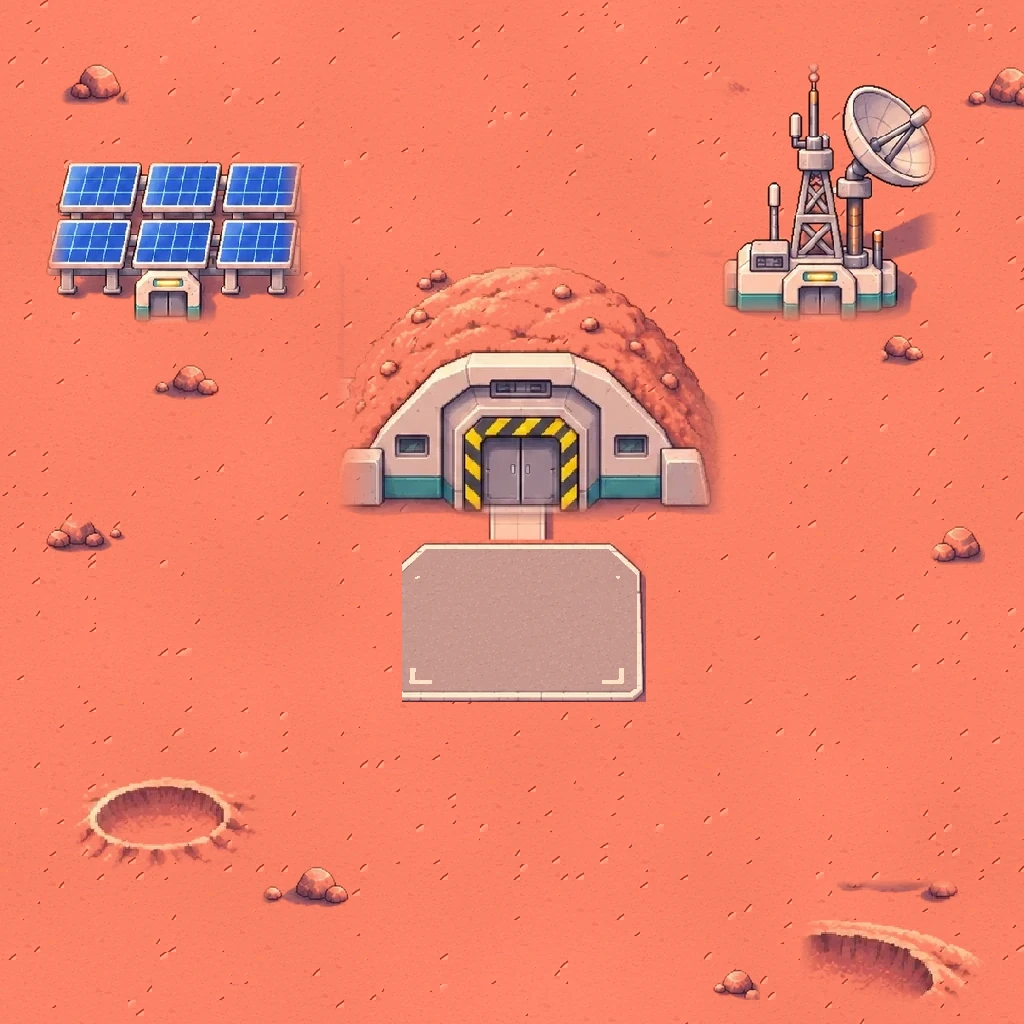
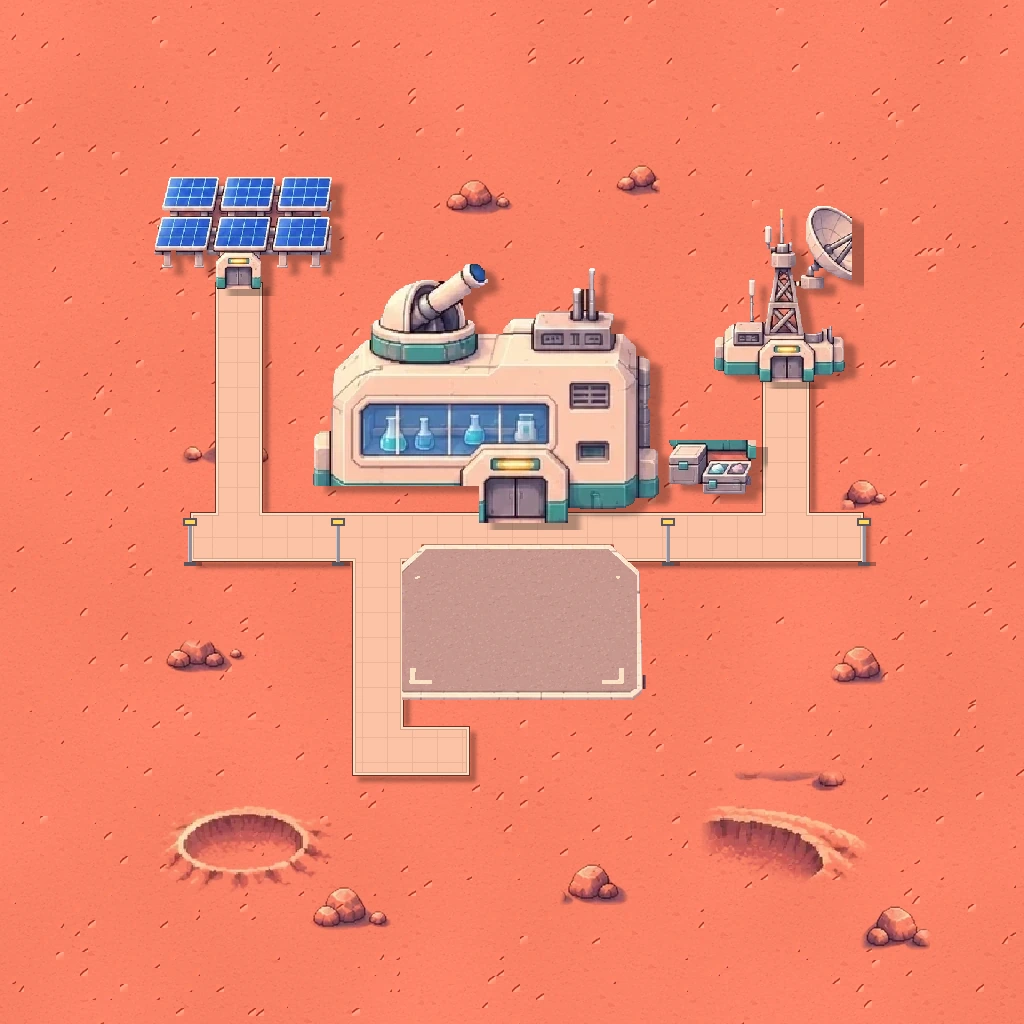
refaz a estação do rover e acende as luzes à noite
- estação nova: laboratório no meio, painéis, antena, caixotes, postes e piso
  igual ao da base, tudo sólido e dentro da área da câmera (antes os prédios
  ficavam meio transparentes e cortados no canto)
- janela, porta e postes acendem enquanto o astronauta trabalha e à noite,
  desenhados por cima do véu do horário
- fim de tarde mais visível na viagem e na estação
- alerta urgente não abre mais no meio da cutscene do rover

diff --git a/src/game/ui/RoverCena.tsx b/src/game/ui/RoverCena.tsx
@@ -50,8 +50,17 @@ const ESC = 420; // esmaecer (ms)
 
 /** estação (art-source/rover/estacao.py): onde o rover para e onde fica a porta */
 const EST = { roverX: 51, roverY: 62, portaX: 51, portaY: 50.5 };
+/** luzes da estação [x, y, largura, altura, força] em % (estacao.py imprime as posições) */
+const LUZES: [number, number, number, number, number][] = [
+  [44.6, 41.8, 18.2, 4.6, 0.45], // janela do laboratório
+  [51, 44.9, 3, 0.9, 0.95], // luz em cima da porta
+  [18.6, 51.1, 1.2, 0.6, 0.95], // postes
+  [33, 51.1, 1.2, 0.6, 0.95],
+  [65.2, 51.1, 1.2, 0.6, 0.95],
+  [84.4, 51.1, 1.2, 0.6, 0.95],
+];
 const DESCE_Y = EST.roverY + 11; // onde o astronauta aterrissa (na frente do rover)
-/** caminho a pé do rover até a porta, contornando o rover pela esquerda */
+/** caminho a pé do rover até a porta, contornando o rover pela esquerda (pela calçada da estação) */
 const A_PE: [number, number][] = [
   [EST.roverX - 1, DESCE_Y],
   [37, DESCE_Y],
@@ -369,7 +378,7 @@ const FILTRO: Record<Periodo, string | undefined> = {
 };
 const VEU: Record<Periodo, string | undefined> = {
   dia: undefined,
-  entardecer: "rgba(255, 120, 50, 0.22)",
+  entardecer: "rgba(255, 110, 45, 0.32)",
   noite: "rgba(40, 18, 70, 0.55)",
 };
 
@@ -383,6 +392,7 @@ function Palco({ q, periodo, periodoFim }: { q: Quadro; periodo: Periodo; period
   const fim = periodoFim ?? periodo;
   const mistura = periodoFim && periodoFim !== periodo ? clamp01(q.relogio) : 0; // 0 = começo, 1 = fim
   const agora = mistura >= 0.5 ? fim : periodo;
+  const aceso = Math.max(q.luz, agora === "noite" ? 0.85 : 0);
   const roverImg = q.rover && q.cena !== "preto" && (
     <img
       key="rover"
@@ -456,28 +466,6 @@ function Palco({ q, periodo, periodoFim }: { q: Quadro; periodo: Periodo; period
         {q.cena === "estacao" && (
           <>
             <img src="/assets/rover/estacao.webp" alt="" className="absolute inset-0 h-full w-full" draggable={false} />
-            {/* janelas e luz da porta acendendo enquanto o astronauta trabalha lá dentro */}
-            {q.luz > 0 &&
-              [
-                [41.5, 43.4],
-                [61.4, 43.4],
-                [50.9, 37.6],
-              ].map(([x, y], i) => (
-                <span
-                  key={i}
-                  className="absolute rounded-sm bg-[#ffe27a]"
-                  style={{
-                    left: `${x}%`,
-                    top: `${y}%`,
-                    width: "3%",
-                    height: "1.6%",
-                    transform: "translate(-50%, -50%)",
-                    opacity: q.luz * (i === 2 ? 0.9 : 0.75 + 0.25 * Math.sin(q.luz * 9 + i)),
-                    boxShadow: `0 0 ${10 * q.luz}px ${4 * q.luz}px rgba(255, 210, 90, ${0.6 * q.luz})`,
-                  }}
-                  aria-hidden
-                />
-              ))}
           </>
         )}
         {q.cena !== "preto" &&
@@ -521,6 +509,29 @@ function Palco({ q, periodo, periodoFim }: { q: Quadro; periodo: Periodo; period
           aria-hidden
         />
       )}
+      {/* luzes da estação por cima do véu do horário (com o mesmo zoom do palco) */}
+      <div className="pointer-events-none absolute inset-0" style={zoom}>
+        {/* janela do laboratório, luz da porta e postes: acendem enquanto o astronauta trabalha
+            lá dentro e ficam acesos à noite */}
+        {q.cena === "estacao" && aceso > 0 &&
+          LUZES.map(([x, y, w, h, forca], i) => (
+            <span
+              key={i}
+              className="absolute bg-[#ffe27a]"
+              style={{
+                left: `${x}%`,
+                top: `${y}%`,
+                width: `${w}%`,
+                height: `${h}%`,
+                transform: "translate(-50%, -50%)",
+                mixBlendMode: i === 0 ? "screen" : undefined,
+                opacity: aceso * forca,
+                boxShadow: `0 0 ${10 * aceso}px ${4 * aceso}px rgba(255, 210, 90, ${0.5 * aceso})`,
+              }}
+              aria-hidden
+            />
+          ))}
+    </div>
       <div className="pointer-events-none absolute inset-0 bg-black" style={{ opacity: q.preto }} aria-hidden />
     </div>
   );

diff --git a/src/game/ui/GameApp.tsx b/src/game/ui/GameApp.tsx
@@ -280,7 +280,8 @@ function GameInner({
 
   // alerta urgente abre sozinho quando a criança chega no mapa
   useEffect(() => {
-    if (phase !== "mapa" || !game || card || overlay) return;
+    // durante a expedição do rover (indo, na estação ou voltando) espera a volta à base
+    if (phase !== "mapa" || !game || card || overlay || cena) return;
     const urgente = game.alerts.find((a) => a.urgent && !a.done);
     if (urgente) {
       setPlace(null);
@@ -288,7 +289,7 @@ function GameInner({
       setCard(urgente.id);
       tutVaiPara("custo");
     }
-  }, [phase, game, card, overlay, tutVaiPara]);
+  }, [phase, game, card, overlay, cena, tutVaiPara]);
 
   const onPlace = useCallback(
     (pl: PlaceId) => {

diff --git a/art-source/rover/estacao.py b/art-source/rover/estacao.py
@@ -2,10 +2,12 @@
 
 - viagem_chao.webp (1024x1024): chão de Marte com crateras e pedras que se REPETE sem emenda na
   horizontal (a cena da viagem rola esse chão para o lado enquanto o rover anda).
-- estacao.webp (1024x1024): a estação de pesquisa onde o rover para (abrigo + antena + painéis
-  solares + plataforma de pouso do rover na frente da porta).
+- estacao.webp (1024x1024): a estação de pesquisa onde o rover para. O laboratório da base no meio,
+  painéis solares e antena dos lados, caixas, postes de luz e caminhos de piso iguais aos da base,
+  e a plataforma do rover na frente da porta. Tudo dentro da área que a câmera mostra (zoom 1.36
+  centrado em x 51%, y 58% -> de x 14% a 87% e de y 15% a 89%).
 
-Uso:  python art-source/rover/estacao.py public/assets/map/base_dia.webp public/assets/rover/garagem_dia.png public/assets/rover
+Uso:  python art-source/rover/estacao.py public/assets/map/base_dia.webp public/assets/rover/garagem_dia.png public/assets/rover [--so-estacao]
 Troque pelos desenhos do time de arte quando estiverem prontos (mesmos nomes de arquivo).
 """
 import os
@@ -15,7 +17,7 @@ import cv2
 import numpy as np
 from PIL import Image
 
-src, garagem, out = sys.argv[1], sys.argv[2], sys.argv[3]
+src, garagem, out = sys.argv[1], sys.argv[2], sys.argv[3]  # --so-estacao: não refaz o chão da viagem
 base = np.asarray(Image.open(src).convert("RGB")).astype(np.float32)
 N = 1024
 rng = np.random.default_rng(23)
@@ -74,43 +76,174 @@ PEDRAS = [(330, 25, 425, 65), (395, 110, 450, 155), (565, 165, 640, 205), (405, 
           (900, 890, 980, 945), (710, 880, 760, 910)]
 DUNAS = [(590, 15, 720, 60), (900, 225, 1015, 285), (720, 950, 860, 1020)]
 
-# ---------------------------------------------------------------- chão da viagem (repete na horizontal)
-v = chao()
-for c, onde, esc, esp in [
-    (CRATERAS[0], (60, 120), 1.7, False), (CRATERAS[1], (560, 210), 1.5, True),
-    (CRATERAS[2], (820, 760), 1.6, False), (CRATERAS[3], (300, 820), 1.4, True),
-    (CRATERAS[0], (930, 380), 1.1, True), (CRATERAS[1], (420, 30), 1.0, False),
-]:
-    colar(v, c, onde, esc, esp, repetir=True)
-for i, d in enumerate(DUNAS * 2):
-    colar(v, d, [(200, 470), (700, 600), (980, 90), (120, 680), (640, 900), (360, 330)][i], 1.2, i % 2 == 1, repetir=True)
-lugares = [(30, 40), (260, 250), (480, 140), (700, 420), (900, 260), (150, 560), (420, 680),
-           (610, 760), (860, 600), (980, 950), (60, 900), (520, 500), (300, 960), (760, 60)]
-for p, onde in zip(PEDRAS, lugares):
-    colar(v, p, onde, 1.0, bool(rng.integers(0, 2)), repetir=True)
-# marcas de pneu do caminho (no meio, onde o rover passa)
-for dy in (-16, 16):
-    y = 560 + dy
-    for x in range(0, N, 6):
-        if (x // 6) % 3 != 2:
-            v[y - 2 : y + 2, x : x + 4] *= 0.86
-Image.fromarray(v.astype(np.uint8)).save(os.path.join(out, "viagem_chao.webp"), "WEBP", quality=90, method=6)
+if "--so-estacao" not in sys.argv:
+    # ---------------------------------------------------------------- chão da viagem (repete na horizontal)
+    v = chao()
+    for c, onde, esc, esp in [
+        (CRATERAS[0], (60, 120), 1.7, False), (CRATERAS[1], (560, 210), 1.5, True),
+        (CRATERAS[2], (820, 760), 1.6, False), (CRATERAS[3], (300, 820), 1.4, True),
+        (CRATERAS[0], (930, 380), 1.1, True), (CRATERAS[1], (420, 30), 1.0, False),
+    ]:
+        colar(v, c, onde, esc, esp, repetir=True)
+    for i, d in enumerate(DUNAS * 2):
+        colar(v, d, [(200, 470), (700, 600), (980, 90), (120, 680), (640, 900), (360, 330)][i], 1.2, i % 2 == 1, repetir=True)
+    lugares = [(30, 40), (260, 250), (480, 140), (700, 420), (900, 260), (150, 560), (420, 680),
+               (610, 760), (860, 600), (980, 950), (60, 900), (520, 500), (300, 960), (760, 60)]
+    for p, onde in zip(PEDRAS, lugares):
+        colar(v, p, onde, 1.0, bool(rng.integers(0, 2)), repetir=True)
+    # marcas de pneu do caminho (no meio, onde o rover passa)
+    for dy in (-16, 16):
+        y = 560 + dy
+        for x in range(0, N, 6):
+            if (x // 6) % 3 != 2:
+                v[y - 2 : y + 2, x : x + 4] *= 0.86
+    Image.fromarray(v.astype(np.uint8)).save(os.path.join(out, "viagem_chao.webp"), "WEBP", quality=90, method=6)
 
 # ---------------------------------------------------------------- estação de pesquisa
+# Prédios recortados INTEIROS do mapa (máscara sólida, sem transparência no meio) e colados
+# com sombra. Caixas no mapa da base (1024x1024): [x0, y0, x1, y1].
+LAB = (30, 650, 316, 868)  # laboratório (vira a estação de pesquisa)
+CAIXAS = (44, 843, 166, 919)  # caixotes da frente do laboratório
+PAINEIS = (58, 98, 368, 293)
+ANTENA = (684, 14, 884, 292)
+CHAO_COR = COR
+
+
+def sprite(caixa, escala, limiar=46, tirar=(), fonte=None):
+    """recorte sólido: o que difere do chão vira prédio; buracos dentro são preenchidos."""
+    x0, y0, x1, y1 = caixa
+    p = (base if fonte is None else fonte)[y0:y1, x0:x1].copy()
+    dif = np.abs(p - CHAO_COR).sum(axis=2)
+    # sombra do mapa (chão mais escuro, mesma cor) não é prédio: a sombra nova vem de sombra()
+    k = (p @ CHAO_COR) / (CHAO_COR @ CHAO_COR)
+    resto = np.abs(p - k[..., None] * CHAO_COR).sum(axis=2)
+    m = ((dif > limiar) & ~((resto < 95) & (k < 1.02))).astype(np.uint8)
+    for zx0, zy0, zx1, zy1 in tirar:
+        m[zy0 - y0 : zy1 - y0, zx0 - x0 : zx1 - x0] = 0
+    m = cv2.morphologyEx(m, cv2.MORPH_OPEN, np.ones((3, 3), np.uint8))
+    m = cv2.morphologyEx(m, cv2.MORPH_CLOSE, np.ones((7, 7), np.uint8))
+    # preenche buracos: tudo que não é alcançado a partir da borda é prédio
+    h, w = m.shape
+    inv = np.pad(1 - m, 1, constant_values=1)
+    fl = inv.copy()
+    cv2.floodFill(fl, np.zeros((h + 4, w + 4), np.uint8), (0, 0), 2)
+    m = ((fl[1:-1, 1:-1] != 2)).astype(np.uint8)
+    # fica só com os pedaços grandes (sem grãozinhos de areia soltos)
+    n, lab, st, _ = cv2.connectedComponentsWithStats(m, 8)
+    keep = np.zeros_like(m)
+    for k in range(1, n):
+        if st[k, cv2.CC_STAT_AREA] > 300:
+            keep[lab == k] = 1
+    if escala != 1.0:
+        p = cv2.resize(p, None, fx=escala, fy=escala, interpolation=cv2.INTER_NEAREST)
+        keep = cv2.resize(keep, None, fx=escala, fy=escala, interpolation=cv2.INTER_NEAREST)
+    return p, keep.astype(np.float32)
+
+
+def sombra(img, m, onde, dx=12, dy=7, forca=0.7):
+    ox, oy = onde
+    h, w = m.shape
+    s = cv2.GaussianBlur(m, (0, 0), 2.5)
+    for y in range(h):
+        yy = oy + y + dy
+        if not 0 <= yy < N:
+            continue
+        xa, xb = max(0, ox + dx), min(N, ox + dx + w)
+        img[yy, xa:xb] *= 1 - (1 - forca) * s[y, xa - ox - dx : xb - ox - dx, None]
+
+
+def pregar(img, sp, onde):
+    p, m = sp
+    ox, oy = onde
+    h, w = m.shape
+    a = m[..., None]
+    img[oy : oy + h, ox : ox + w] = img[oy : oy + h, ox : ox + w] * (1 - a) + p * a
+
+
+# cores do piso (medidas na estrada do mapa)
+PISO = np.array([252, 195, 166], np.float32)
+LINHA = np.array([237, 179, 151], np.float32)
+CONTORNO = np.array([110, 48, 34], np.float32)
+BRILHO = np.array([254, 222, 198], np.float32)
+FILETE = np.array([214, 165, 136], np.float32)
+
+
+def caminhos(img, retangulos):
+    m = np.zeros((N, N), np.uint8)
+    for x0, y0, x1, y1 in retangulos:
+        m[y0:y1, x0:x1] = 1
+    # sombra para baixo/direita, como na base
+    sh = np.zeros_like(m)
+    sh[6:, 6:] = m[:-6, :-6]
+    sh = cv2.GaussianBlur((sh & (1 - m)).astype(np.float32), (0, 0), 2)
+    img *= 1 - 0.32 * sh[..., None]
+    k = np.ones((3, 3), np.uint8)
+    e1 = cv2.erode(m, k)
+    e3 = cv2.erode(m, k, iterations=3)
+    e4 = cv2.erode(m, k, iterations=4)
+    yy, xx = np.mgrid[0:N, 0:N]
+    grade = ((xx % 25) == 12) | ((yy % 25) == 12)
+    cor = np.where(grade[..., None], LINHA, PISO)
+    cor = np.where((e3 & (1 - e4))[..., None].astype(bool), FILETE, cor)
+    cor = np.where((e1 & (1 - e3))[..., None].astype(bool), BRILHO, cor)
+    cor = np.where((m & (1 - e1))[..., None].astype(bool), CONTORNO, cor)
+    img[:] = np.where(m[..., None].astype(bool), cor, img)
+
+
+def poste(img, x, y):
+    """poste de luz em pixel art (base em x, y): pé, haste e lâmpada amarela."""
+    img[y - 4 : y, x - 6 : x + 6] = (92, 84, 92)
+    img[y - 40 : y - 4, x - 2 : x + 2] = (150, 142, 150)
+    img[y - 40 : y - 4, x - 2 : x - 1] = (205, 198, 205)
+    img[y - 48 : y - 40, x - 7 : x + 7] = (92, 84, 92)
+    img[y - 46 : y - 42, x - 5 : x + 5] = (255, 214, 92)
+    img[y - 4 : y, x + 6 : x + 12] *= 0.7
+
+
 e = chao()
-for c, onde, esc, esp in [(CRATERAS[0], (60, 760), 1.4, False), (CRATERAS[3], (800, 880), 1.3, True)]:
+# crateras e pedras longe dos prédios e do caminho do astronauta
+for c, onde, esc, esp in [(CRATERAS[0], (150, 790), 1.3, False), (CRATERAS[3], (700, 770), 1.2, True)]:
     colar(e, c, onde, esc, esp)
-for p, onde in zip(PEDRAS[:8], [(40, 520), (930, 520), (150, 360), (880, 330), (260, 860), (700, 960), (60, 60), (960, 60)]):
+for p, onde in zip(PEDRAS[:9], [(160, 640), (830, 640), (440, 175), (610, 160), (180, 420), (840, 470),
+                                (560, 860), (300, 880), (860, 900)]):
     colar(e, p, onde, 1.0, bool(rng.integers(0, 2)))
-# prédios (atrás primeiro): painéis solares, antena, abrigo (a estação em si)
-colar(e, (55, 90, 370, 295), (40, 150), 0.85, limiar=40)
-colar(e, (688, 18, 918, 295), (720, 60), 0.95, limiar=40)
-# plataforma do rover na frente da porta (recorte da garagem vazia, com o caminho em cima)
+
+PAD_X, PAD_Y = 398, 500  # plataforma do rover (garagem vazia do mapa)
+lab = sprite(LAB, 1.25, tirar=[(30, 838, 168, 868)])  # sem os caixotes (vão à parte)
+LAB_XY = (522 - int((203 - LAB[0]) * 1.25), 516 - int((862 - LAB[1]) * 1.25))
+pain = sprite(PAINEIS, 0.6)
+PAIN_XY = (150, 172)
+ant = sprite(ANTENA, 0.72)
+ANT_XY = (708, 182)
+cx = sprite(CAIXAS, 0.75)
+CX_XY = (664, 440)
+
+# piso: uma rua na frente da estação ligando painéis, porta e antena; a calçada da esquerda é o
+# caminho a pé do astronauta (RoverCena.tsx: A_PE) e a ligação da porta com a plataforma
+porta_pain = PAIN_XY[0] + int((207 - PAINEIS[0]) * 0.6)
+porta_ant = ANT_XY[0] + int((793 - ANTENA[0]) * 0.72)
+caminhos(e, [
+    (190, 512, 864, 562),  # rua da frente
+    (430, 540, 614, 548),  # encosta na plataforma
+    (porta_pain - 24, 282, porta_pain + 24, 540),  # painéis
+    (porta_ant - 24, ANT_XY[1] + 196, porta_ant + 24, 540),  # antena
+    (352, 512, 404, 776),  # calçada do astronauta
+    (352, 726, 470, 776),
+    (497, 500, 547, 548),  # porta → plataforma
+])
 pad = np.asarray(Image.open(garagem).convert("RGB")).astype(np.float32)
-PAD_X, PAD_Y = 398, 500
-# a plataforma entra inteira (sem esfumar a borda); o resto do recorte é só chão
-e[PAD_Y + 40 : PAD_Y + 202, PAD_X + 4 : PAD_X + 248] = pad[40:202, 4:248]
-colar(e, (0, 0, pad.shape[1], 42), (PAD_X, PAD_Y), 1.0, limiar=18, fundo=pad)
-colar(e, (702, 655, 1012, 875), (337, 250), 1.25, limiar=40)
-Image.fromarray(e.astype(np.uint8)).save(os.path.join(out, "estacao.webp"), "WEBP", quality=90, method=6)
+pad_sp = sprite((4, 44, 248, 206), 1.0, fonte=pad)  # só a plataforma, sem o chão em volta
+pregar(e, pad_sp, (PAD_X + 4, PAD_Y + 44))
+
+for sp, xy in [(pain, PAIN_XY), (ant, ANT_XY), (lab, LAB_XY), (cx, CX_XY)]:
+    sombra(e, sp[1], xy)
+for sp, xy in [(pain, PAIN_XY), (ant, ANT_XY), (lab, LAB_XY), (cx, CX_XY)]:
+    pregar(e, sp, xy)
+for x, y in [(338, 566), (668, 566), (190, 566), (864, 566)]:
+    poste(e, x, y)
+Image.fromarray(np.clip(e, 0, 255).astype(np.uint8)).save(os.path.join(out, "estacao.webp"), "WEBP", quality=92, method=6)
+
+# onde ficam as janelas e a luz da porta (para o RoverCena acender quando o tempo passa)
+J = lambda x, y: (round((LAB_XY[0] + (x - LAB[0]) * 1.25) / N * 100, 1), round((LAB_XY[1] + (y - LAB[1]) * 1.25) / N * 100, 1))
+print("lab", LAB_XY, "janela", J(75, 770), J(225, 812), "luz porta", J(203, 817), "postes", [(round(x / N * 100, 1), round((y - 44) / N * 100, 1)) for x, y in [(338, 566), (668, 566), (190, 566), (864, 566)]])
 print("ok")
